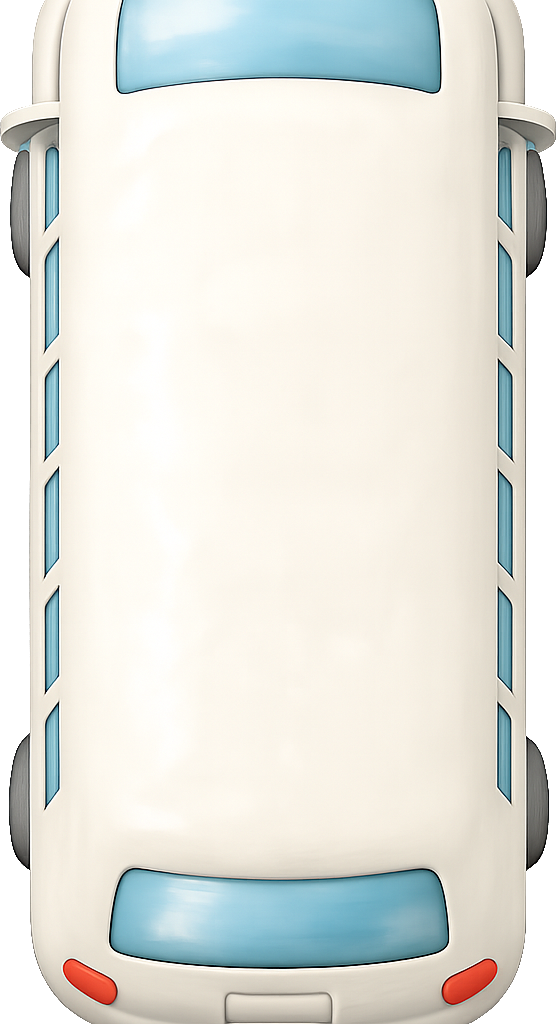
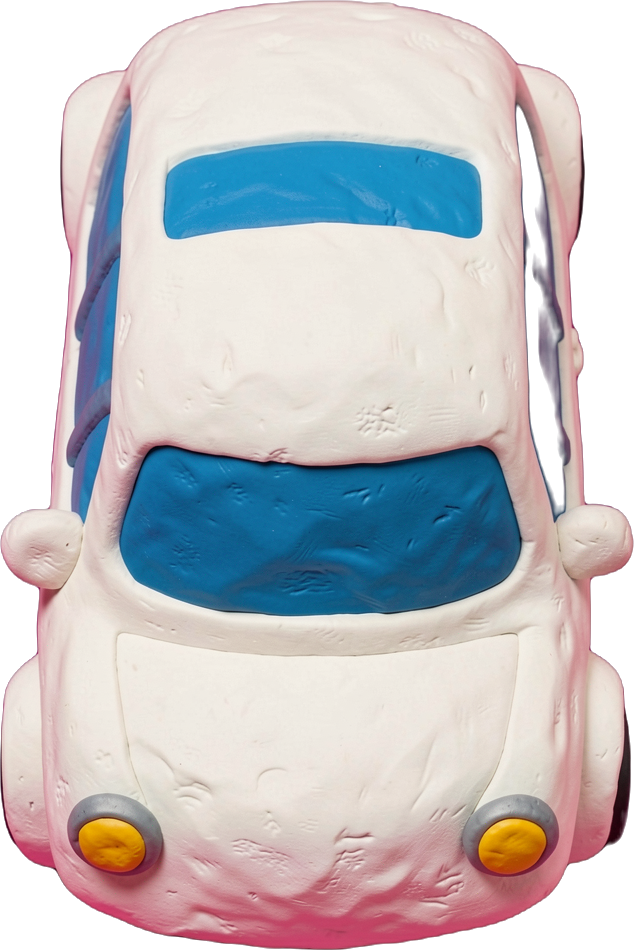
feat(driving): readable Bea/Spark vans, open-top bus w/ passengers, watercolour signs
- Bea + Spark re-rendered as proper front-3/4 vans (windscreen, bonnet,
  grille) with matching rear views, fixing the featureless-capsule look;
  bay angle now 0 (nose-down fronts), rears preloaded.
- Open-top double-decker bus re-rendered flat top-down (no more steep
  perspective) and full of passengers; now a single sprite (bus-rear removed).
- Watercolour 20 / 70 / hedgehog-warning sign assets added (placement per
  road type still to wire).

diff --git a/apps/game/src/scenes/PtvDriveScene.ts b/apps/game/src/scenes/PtvDriveScene.ts
@@ -100,8 +100,8 @@ const VEHICLE_SPEED: Record<VehicleType, number> = {
 const VEHICLE_PARK_ANGLE: Record<VehicleType, number> = {
   'pedal-trike': 0,
   'small-van': 0,
-  'long-van': 180,
-  'electric-minibus': 180,
+  'long-van': 0,
+  'electric-minibus': 0,
   'animal-lorry': 0,
 };
 
@@ -297,7 +297,7 @@ export class PtvDriveScene extends Phaser.Scene {
     }
     // Rear ("driving away") views for the front-heavy vehicles. Missing files
     // fail softly, so this list can run ahead of the art being rendered.
-    for (const n of ['henry', 'car-red', 'car-blue', 'car-yellow', 'tractor', 'tractor-red', 'tractor-blue', 'ambulance', 'bus', 'trikey', 'big-tilly', 'pickup', 'truck']) {
+    for (const n of ['henry', 'car-red', 'car-blue', 'car-yellow', 'tractor', 'tractor-red', 'tractor-blue', 'ambulance', 'trikey', 'big-tilly', 'pickup', 'truck', 'bea', 'spark']) {
       tryImg(`vehicle-topdown-${n}-rear`, `vehicle-topdown-${n}-rear.png`);
     }
     for (const n of [...DECOR_KINDS, 'speed-camera']) {
